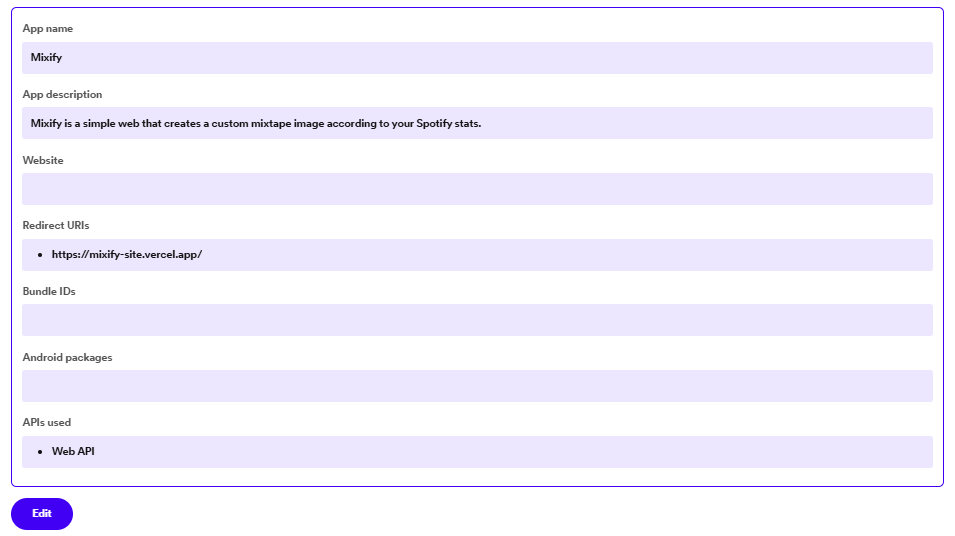
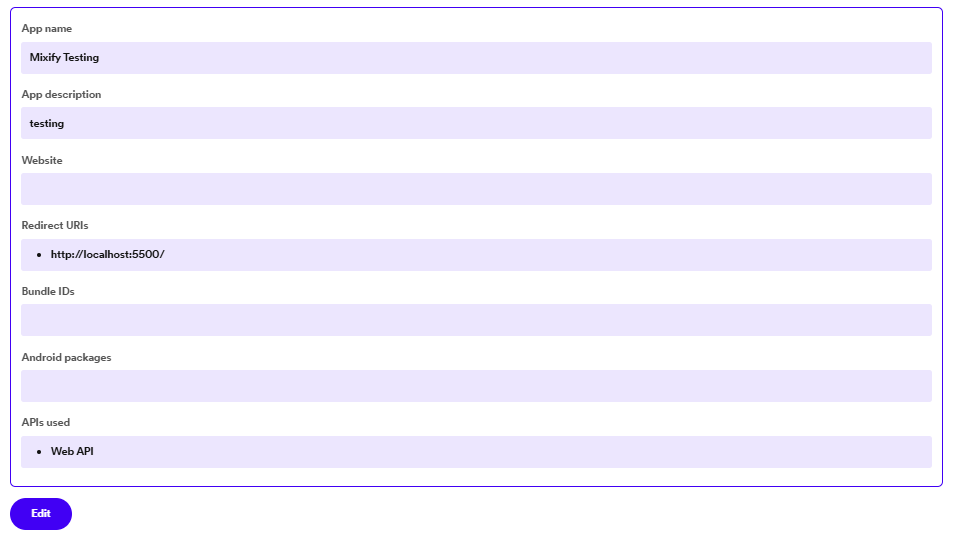
fix CONTRIBUTING.md

diff --git a/CONTRIBUTING.md b/CONTRIBUTING.md
@@ -12,6 +12,8 @@ Thank you for your interest in contributing to the project! Open source ensures 
 
 - Once we have our project on Spotify, we must do two things: copy our ClientID (found in the settings) and go to our project settings and add our redirection URI, in this case, http://localhost:5500/ (set the port you want).
 
+<img src="./assets/images/contributing3.png"></img>
+
 ## Start collaborating! 🚀
 
 Don’t be afraid to touch the project and change (or delete) things; what’s important here is to improve the project for everyone’s benefit. As long as good practices and clean code are maintained, any contribution is welcome (no matter how small!).
